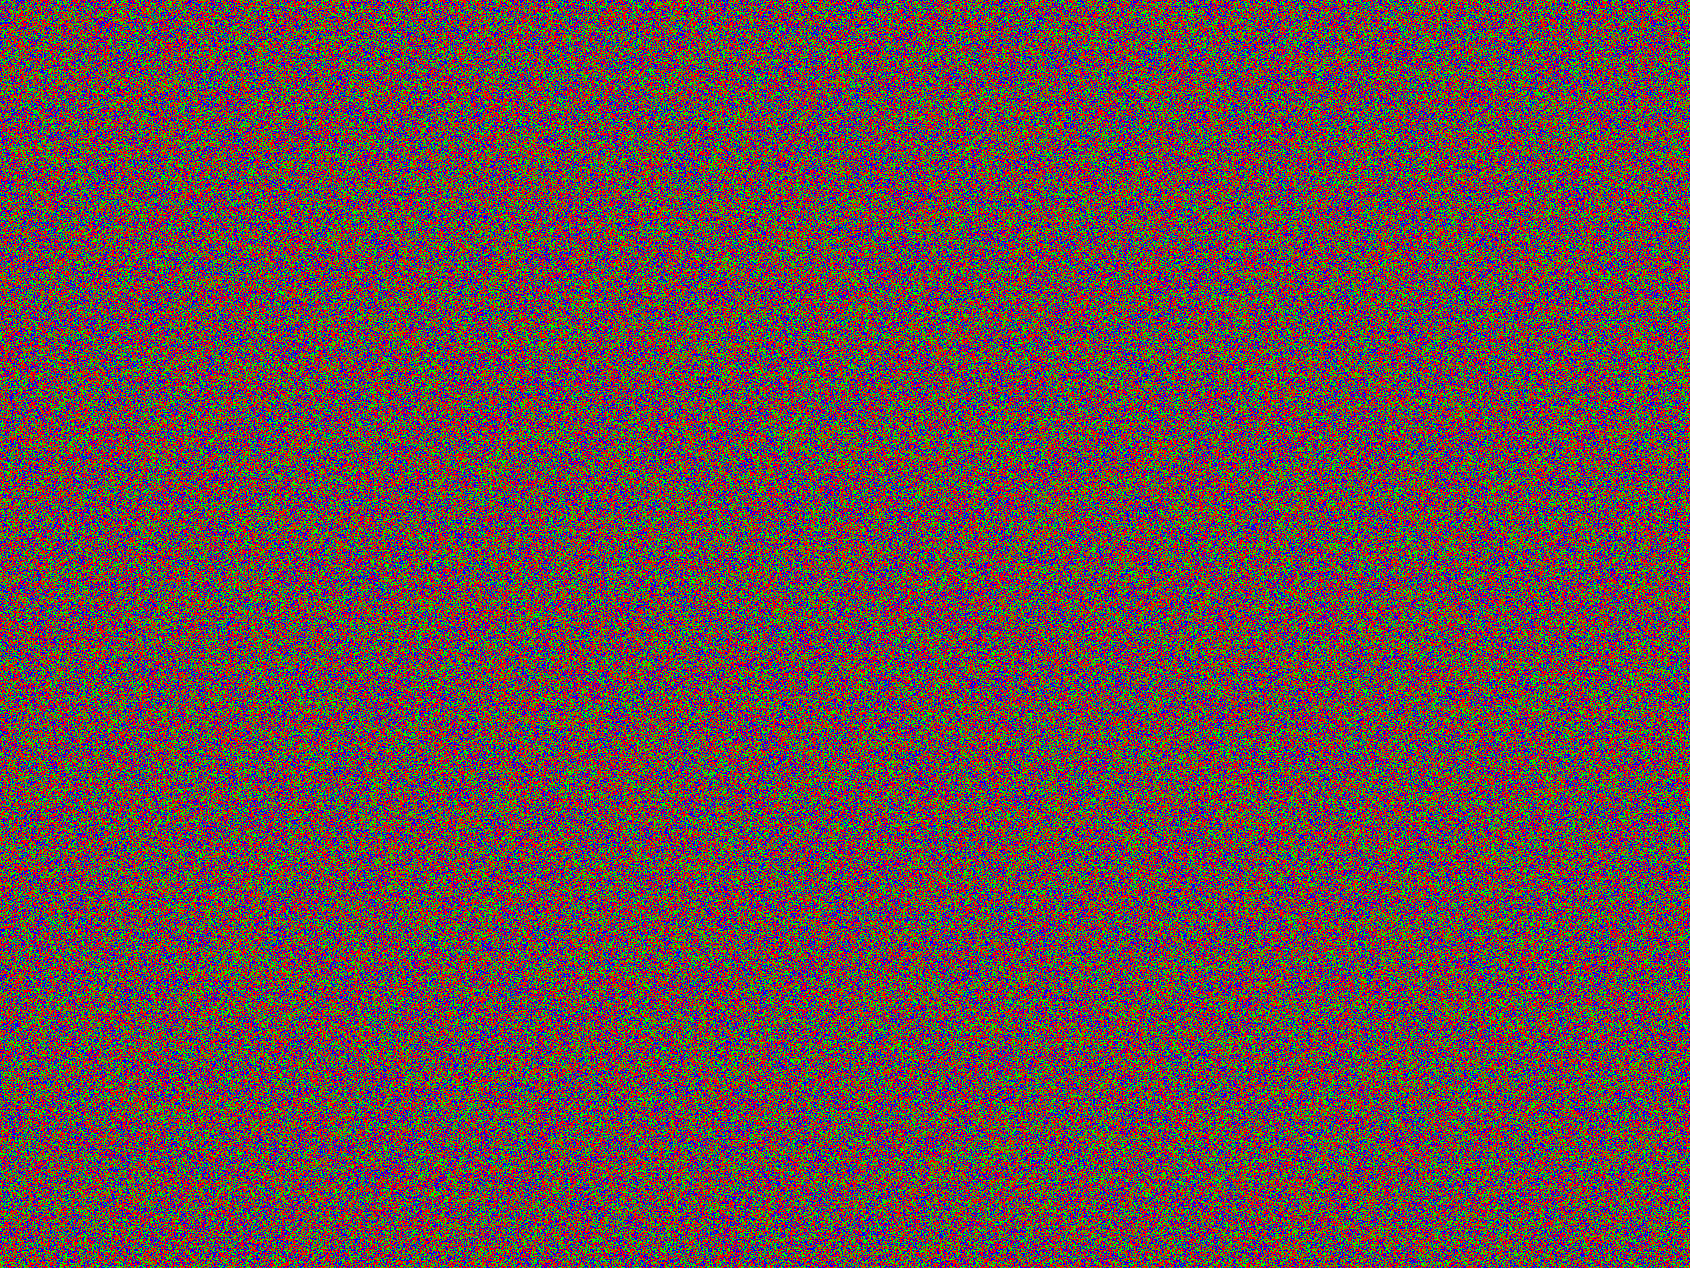
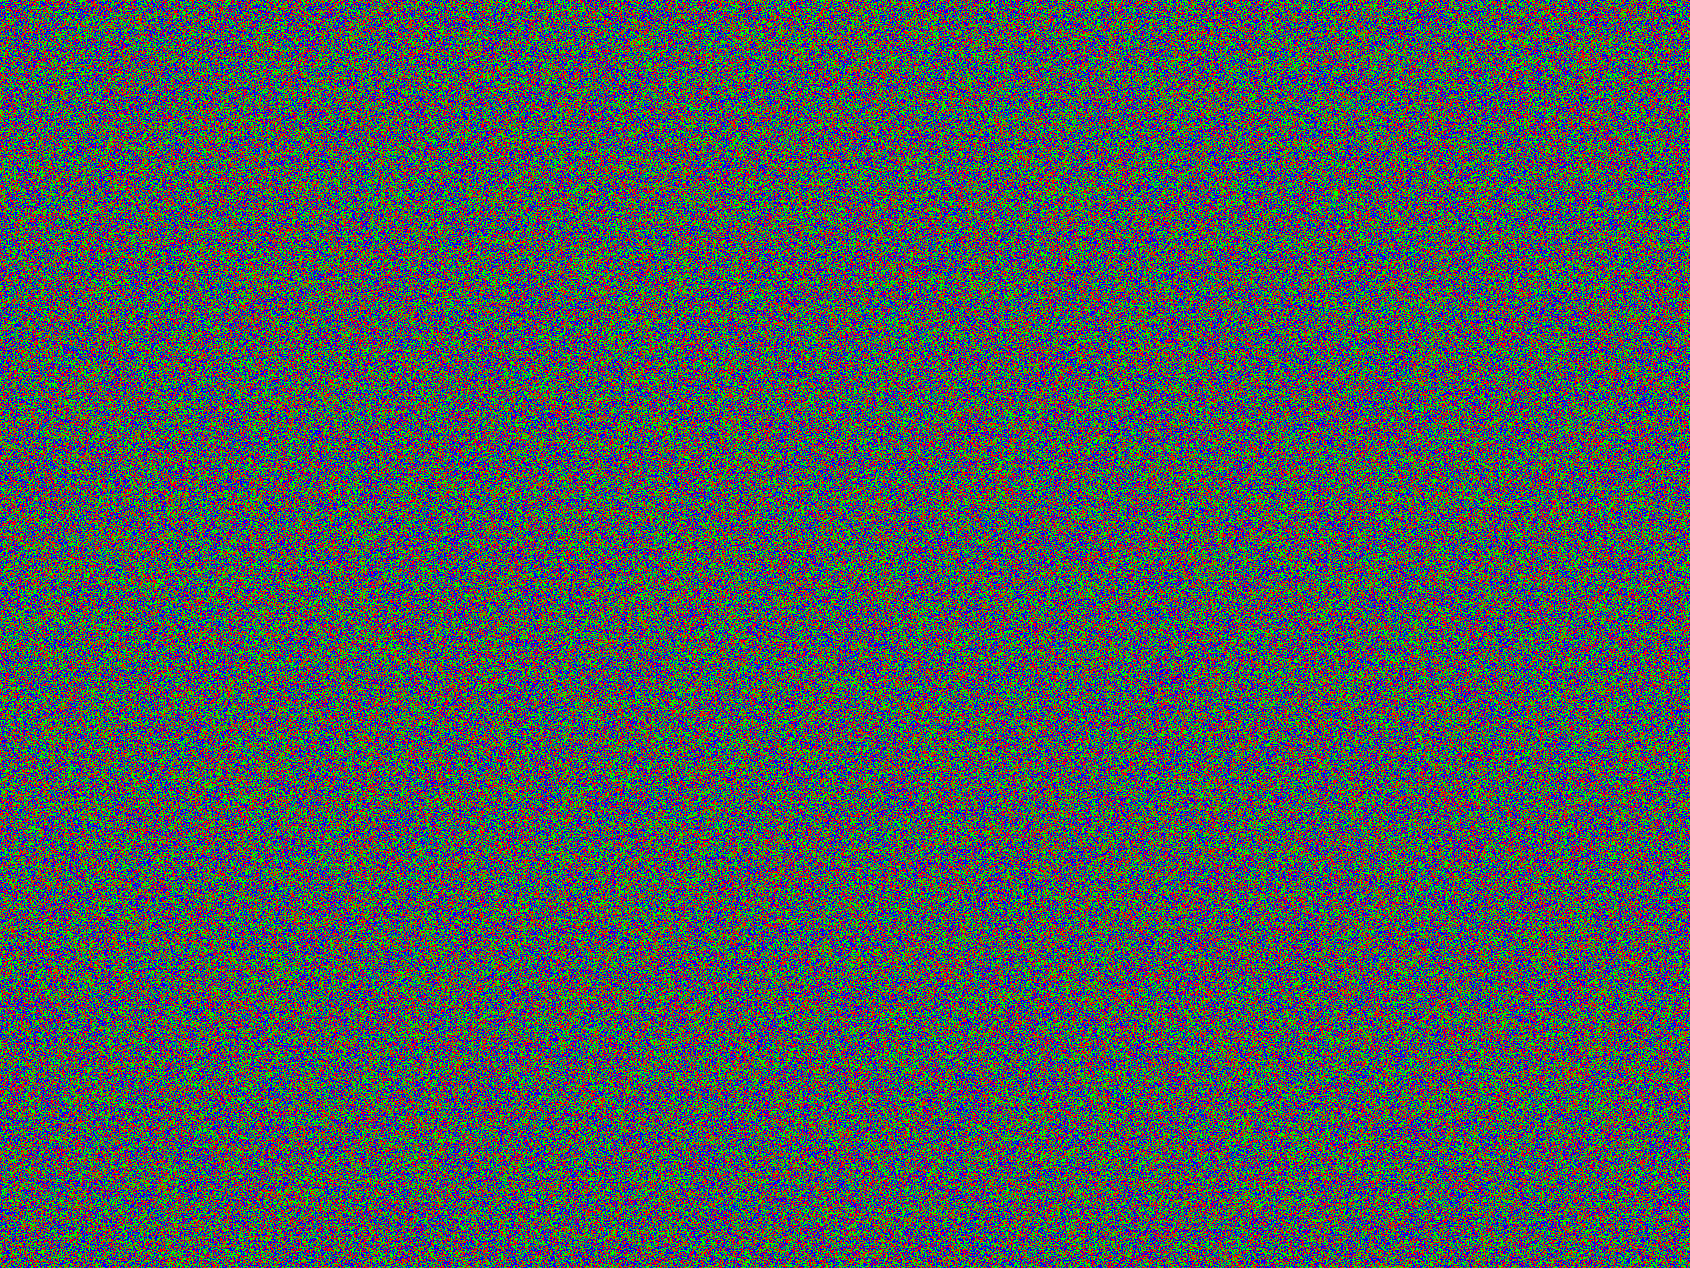
iterating thru each pixel and changing RGB values wasn't working out. i will attempt to separate RGB channels and make changes that way

diff --git a/test.py b/test.py
@@ -1,9 +1,89 @@
-import random
+import cv2
+import numpy as np
 
-go = True
-print("generating numbers... enter 'stop' to quit")
-while go == True:
-    print(random.random())
-    stop = input()
-    if stop == "stop":
-        go = False
+
+
+
+# def sp_noise(image,prob):
+#     '''
+#     Add salt and pepper noise to image
+#     prob: Probability of the noise
+#     '''
+#     output = np.zeros(image.shape,np.uint8) #.zeros makes an array of 0s, i think .uint8 assigns 8bits per value
+#     thres = 1 - prob 
+#     for i in range(image.shape[0]):
+#         for j in range(image.shape[1]):
+#             rdn = random.random()
+#             if rdn < prob:
+#                 output[i][j] = (255,0,0) #blue
+#             elif rdn > thres:
+#                 output[i][j] = (0,255,0) #green
+#             else:
+#                 output[i][j] = (0,0,255) #red
+#     return output
+# image = cv2.imread('gray.png',cv2.IMREAD_COLOR) # Only for grayscale image(?)
+# noise_img = sp_noise(image,.35) #add a slider to second argument
+# cv2.imwrite('sp_noise.png', noise_img)
+# image = cv2.imread('testcolors.png',cv2.IMREAD_COLOR)
+# img = cv2.cvtColor(image, cv2.COLOR_BGR2RGB)
+
+# def colorizer(image):
+#     output = np.zeros(image.shape)
+#     for i in range(image.shape[0]):
+#         for j in range(image.shape[1]):
+#             # colors = (int(img[i][j][0]),int(img[i][j][1]),int(img[i][j][2]))
+            
+#             if img[i][j][0] > img[i][j][1] and img[i][j][2]:
+#                 print(type(img[i][j][0]),img[i][j][1],img[i][j][2])
+#                 output[i][j][0] = ((img[i][j][0]+img[i][j][1]+img[i][j][2])/3)
+#                 print(output[i][j][0])
+            #changes reds
+            # if colors[0] > colors[1] and colors[2]:
+            #     output[i][j][0] = int((colors[0]+colors[1]+colors[2])/3)
+            #     output[i][j][1] = 0
+            #     output[i][j][2] = 0
+            #changes greens
+            # if colors[1] > colors[0] and colors[2]:
+            #     output[i][j][0] = 0
+            #     output[i][j][1] = int((colors[0]+colors[1]+colors[2])/3)
+            #     output[i][j][2] = 0
+            # #changes blues
+            # if colors[2] > colors[1] and colors[0]:
+            #     output[i][j][0] = 0
+            #     output[i][j][1] = 0
+            #     output[i][j][2] = int((colors[0]+colors[1]+colors[2])/3)
+            #leaves it alone if none of the above
+            # else:
+            # output[j][i] = img[j][i]
+    # return output
+
+# colorizedimg = colorizer(img)
+# cv2.imwrite('colorized.png',colorizedimg)
+
+# print("before:")
+# print(img[0][0],img[0][-1])
+# print(img[-1][0],img[-1][-1])
+# print("after")
+# print(colorizedimg[0][0],colorizedimg[0][-1])
+# print(colorizedimg[-1][0],colorizedimg[-1][-1])
+
+# print(img[300][300])
+# num = (img[300][300][0]+img[300][300][1]+img[300][300][2])/3
+# num1 = int(img[300][300][1])
+# num2 = int(img[300][300][2])
+# num0 = int(img[300][300][0])
+# avgnum = int((num0+num1+num2)/3)
+# print(avgnum)
+# bgr = (int(image[300][300][0]),int(image[300][300][1]),int(image[300][300][2]))
+# rgb = (int(img[300][300][0]),int(img[300][300][1]),int(img[300][300][2]))
+# # print (bgr,rgb)
+# # print(type(bgr),type(rgb))
+# rgb1 = (200,5,5)
+# if rgb1[0] > rgb1[1] and rgb1[2]:
+#     rgb2 = int((rgb1[0]+rgb1[1]+rgb1[2])/3)
+#     print (rgb1,rgb2)
+# print(img[300][300])
+#make a 4 pixel image with orange, blueish, greenish, and grey
+#check the datatypes for int back to uint8
+
+#top right, top left, 

diff --git a/autochrome_py.py b/autochrome_py.py
@@ -32,8 +32,10 @@ def sp_noise(image,prob):
                 output[i][j] = (0,0,255) #red
     return output
 image = cv2.imread('gray.png',cv2.IMREAD_COLOR) # Only for grayscale image(?)
-noise_img = sp_noise(image,.3) #add a slider to second argument
+noise_img = sp_noise(image,.35) #add a slider to second argument
 cv2.imwrite('sp_noise.png', noise_img)
+
+#take original RGB value, subtract/add channel value from/with avg of other two
 
 #---add green noise, then blue noise, then red noise
 
